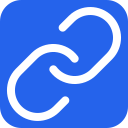
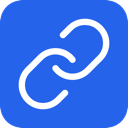
fix(extension): follow class-based dark mode and shrink launcher glyph
Tailwind v4 compiled dark: utilities against prefers-color-scheme, while
useTheme toggles the .dark class on <html> – the logo title now turns
white correctly in every theme mode. Icons were re-rendered from the
updated SVG with the chain glyph at 80% size.

diff --git a/apps/extension/src/components/Header.tsx b/apps/extension/src/components/Header.tsx
@@ -31,7 +31,7 @@ export function Header() {
             <path d="M14 11a5 5 0 0 0-7.54-.54l-3 3a5 5 0 0 0 7.07 7.07l1.71-1.71" />
           </svg>
         </div>
-        <h1 className="font-bold text-lg tracking-tight text-slate-800 dark:text-slate-100">
+        <h1 className="font-bold text-lg tracking-tight text-slate-800 dark:text-white">
           ReadLater
         </h1>
       </div>

diff --git a/apps/extension/src/index.css b/apps/extension/src/index.css
@@ -1,5 +1,8 @@
 @import "tailwindcss";
 
+/* Dark mode is toggled via the `.dark` class on <html> (see useTheme). */
+@custom-variant dark (&:where(.dark, .dark *));
+
 @theme {
   --color-border: hsl(var(--border));
   --color-input: hsl(var(--input));
